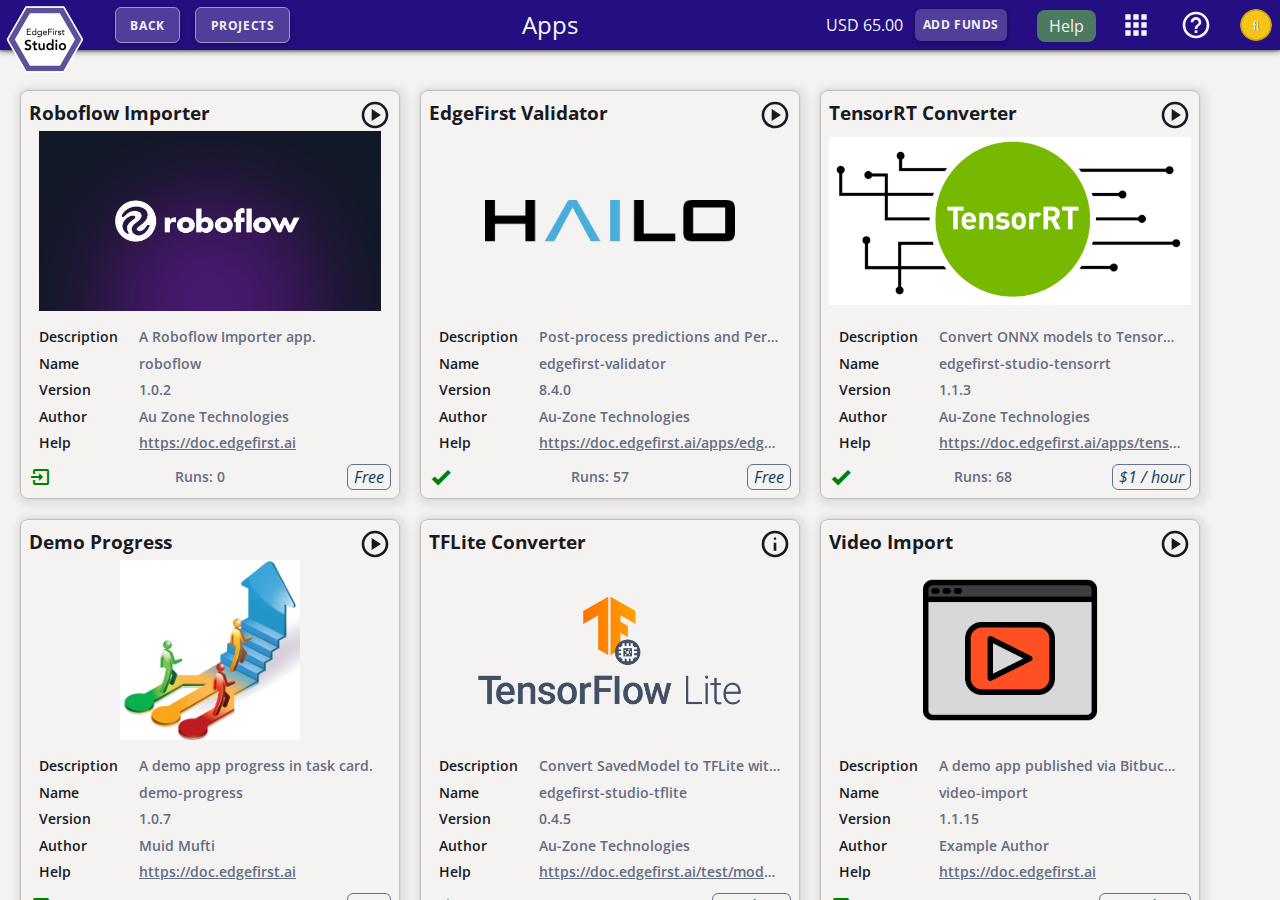
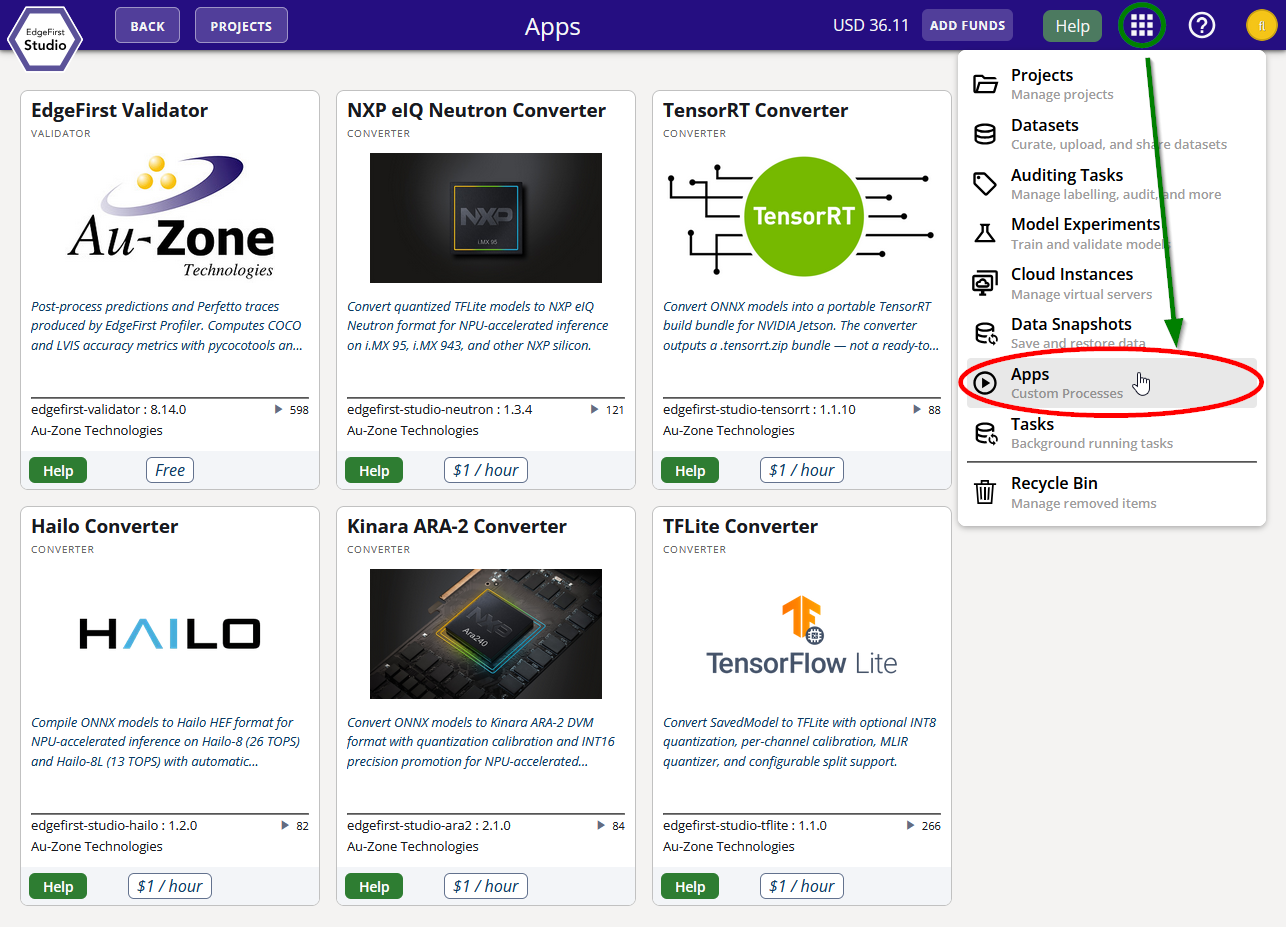
DE-2667: Updated app documentation. Add big admonition for Firefox browser - sliders are not operational (WIP).

diff --git a/docs/studio/apps.md b/docs/studio/apps.md
@@ -1,7 +1,8 @@
 # Studio Apps Dashboard
 
-The Studio Apps page lists all available EdgeFirst apps that can be run directly from
-EdgeFirst Studio.  Apps extend the platform with custom processing pipelines such as data import, model training, conversion, validation, and profiling.
+The Studio Apps page is a catalog that lists all available EdgeFirst apps.  Apps extend
+the platform with custom processing pipelines such as data import, model training,
+conversion, validation, and profiling.
 
 To access this page, click the **Apps** waffle icon in the top navigation bar and select
 **Apps** from the menu.
@@ -21,28 +22,82 @@ Each app is displayed as a card with the following information:
 - **Runs** — The total number of executions recorded for this app across the organization.
 - **Pricing** — The per-hour compute cost, or **Free** if there is no charge.
 
-Click the **Run** button on an app card to launch the app.  A configuration dialog will
-appear to set the app's input parameters before execution begins.  Once started, the
-app run is tracked in the [Tasks panel](navigation.md#tasks).
+!!! note "Apps are launched from their workflow"
+    The Apps page is a catalog only — apps are not launched from here.  Each app is
+    started from the relevant point in its workflow.  For example, Converter Apps are
+    launched from a completed training session's *Artifacts* tab.  Once started, the app
+    run is tracked in the [Tasks panel](navigation.md#tasks).
 
 ## Available Apps
 
-The following apps are available by default in EdgeFirst Studio:
+EdgeFirst Studio ships with the apps described below. Each app is documented in more
+detail on its own help page, linked from its card and from the sections that follow.
 
-| App | Description | Pricing |
-| --- | ----------- | ------- |
-| **Roboflow Importer** | Import datasets from Roboflow into EdgeFirst Studio. | Free |
-| **EdgeFirst Profiler** | Profile model inference pipelines and produce timing traces. | Free |
-| **EdgeFirst Validator** | Post-process predictions and timing traces to compute COCO/LVIS accuracy metrics and timing charts, then publish results to the validation session. | Free |
-| **TensorRT Converter** | Convert ONNX models to TensorRT `.engine` plans cross-compiled for NVIDIA Jetson. | $1/hour |
-| **TFLite Converter** | Convert a SavedModel to TFLite with optional INT8 quantization, per-channel calibration, and configurable split support. | $1/hour |
+### EdgeFirst Profiler
+
+The on-target measurement engine. The Profiler runs the complete vision pipeline —
+decode, preprocess, inference, postprocess, and NMS — on the target hardware your model
+will deploy to, then publishes per-image predictions and a detailed timing trace back to
+EdgeFirst Studio. Studio uses those artifacts to generate the accuracy metrics, timing
+charts, and trace visualizations for the validation session. See
+[Profiler](../profiler/index.md).
+
+### EdgeFirst Validator
+
+The Studio-side companion to the Profiler. The Validator post-processes the predictions
+and timing traces produced by a profiling run to compute COCO/LVIS accuracy metrics
+(such as mAP and mIoU) and timing charts, then publishes the results to the validation
+session. See [Validation Metrics](../models/validation/metrics/index.md).
+
+### Converter Apps
+
+Converter Apps turn a completed training session's framework-native artifact (a
+TensorFlow SavedModel or an ONNX graph) into a deployment-ready binary for a specific
+target, embedding the [EdgeFirst model metadata](../models/metadata.md) so the runtime can
+decode the model's outputs with no per-target glue code. A Converter App is launched from
+a training session's *Artifacts* tab. Most converters apply the **EdgeFirst Smart
+Quantizer** to recover INT8 accuracy without retraining. For the full conversion
+workflow, the Smart Quantization mechanism, per-converter behavior, and calibration, see
+[Model Conversion](../models/conversion/index.md).
+
+#### TFLite Converter
+
+Converts a SavedModel into a quantized `.tflite` flatbuffer for NXP i.MX 8M Plus and
+generic CPU/NPU TFLite delegates, applying per-scale Smart Quantization. See
+[TFLite Conversion](../models/conversion/tflite.md).
+
+#### Neutron Converter
+
+Re-encodes a TFLite model with Neutron microcode for NXP i.MX 95 and other NXP eIQ
+Neutron silicon. See [Neutron Conversion](../models/conversion/neutron.md).
+
+#### TensorRT Converter
+
+Bundles an ONNX graph into a `.tensorrt.zip` for an on-device TensorRT engine build on
+NVIDIA Jetson (FP16 path). See [TensorRT Conversion](../models/conversion/tensorrt.md).
+
+#### Ara2 Converter
+
+Converts a model into a `.dvm` Dataflow Virtual Machine binary for the NXP Ara240 DNPU,
+with per-scale split and optional INT16 DFL promotion. See
+[Ara2 Conversion](../models/conversion/ara2.md).
+
+#### Hailo Converter
+
+Compiles a model into a `.hef` Hailo Executable Format binary for Hailo-8 and Hailo-8L
+NPUs, with structurally-required per-scale Smart Quantization. See
+[Hailo Conversion](../models/conversion/hailo.md).
 
 !!! info "App Marketplace"
-    The available apps may change as new apps are published.  Contact
+    The available apps may change as new apps are published.  Per-app pricing is shown on
+    each app card and reflected in your [billing](user/billing.md).  Contact
     [support@edgefirst.ai](mailto:support@edgefirst.ai) for information on publishing
     your own apps to the marketplace.
 
 ## Next Steps
 
-For details on running model conversion apps, see [Model Conversion](../models/conversion/tflite.md).
-For the TensorRT converter, see [TensorRT Conversion](../models/conversion/tensorrt.md).
+- [Model Conversion](../models/conversion/index.md) — the conversion workflow, Smart
+  Quantization, and per-converter launch options.
+- [Profiler](../profiler/index.md) — on-target profiling and validation runs.
+- [Validation Metrics](../models/validation/metrics/index.md) — how accuracy and timing
+  results are computed and presented.

diff --git a/docs/studio/index.md b/docs/studio/index.md
@@ -21,6 +21,18 @@ Learn more about:
 !!! tip "Choose Your Tier"
     📬 Want to learn more about pricing tiers or sign up for a specific tier? [Email our support team](mailto:support@edgefirst.ai) — we're here to help!
 
+## Browser Support
+
+For the best experience, we recommend using a Chromium-based browser such as **Google
+Chrome** or **Microsoft Edge**. These browsers are fully supported and validated against
+all EdgeFirst Studio features.
+
+!!! bug "Firefox support is a work in progress"
+    Firefox is not yet fully supported. Some controls — most notably **sliders** — are
+    currently non-functional in Firefox. Until this is resolved, please use a
+    Chromium-based browser such as **Google Chrome** or **Microsoft Edge** for any
+    workflow that relies on sliders.
+
 ## Getting Started
 
 New users should start with the [Home Page](home.md) and [Navigating EdgeFirst Studio](navigation.md). These guides explain the main features and dashboards.
